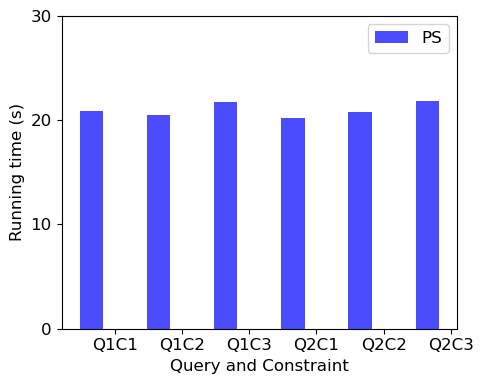
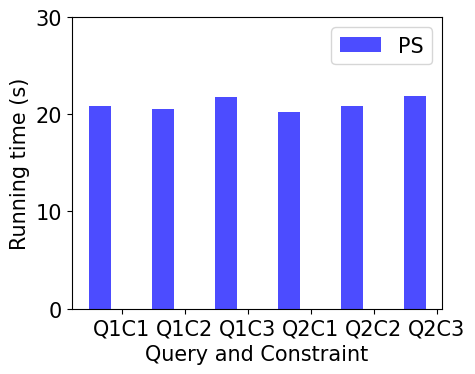
adult data

Changed region(s): [[0.0, 0.0, 1.0, 0.9706]]

diff --git a/Experiment/adult/relaxation/fig1.py b/Experiment/adult/relaxation/fig1.py
@@ -1,0 +1,69 @@
+import matplotlib.pyplot as plt
+import seaborn as sns
+from matplotlib.ticker import FuncFormatter
+import numpy as np
+
+plt.rc('text', usetex=True)
+plt.rc('font', family='serif')
+
+
+sns.set_palette("Paired")
+# sns.set_palette("deep")
+sns.set_context("poster", font_scale=2)
+sns.set_style("whitegrid")
+# sns.palplot(sns.color_palette("deep", 10))
+# sns.palplot(sns.color_palette("Paired", 9))
+
+color = ['C1', 'C3']
+label = ["PS", "LT"]
+
+f_size = (14, 10)
+
+
+
+
+x_list = list()
+x_naive = list()
+execution_timeps = list()
+execution_timelt = list()
+
+input_path = r'time_0.csv'
+input_file = open(input_path, "r")
+
+Lines = input_file.readlines()
+
+count = 0
+# Strips the newline character
+for line in Lines:
+    count += 1
+    if line == '\n':
+        continue
+    if count < 2:
+        continue
+    if count > 8:
+        break
+    items = line.strip().split(',')
+    x_list.append(items[0])
+    execution_timeps.append(float(items[1]))
+
+
+print(x_list, execution_timeps, execution_timelt)
+
+index = np.arange(len(x_list))
+bar_width = 0.35
+
+fig, ax = plt.subplots(1, 1, figsize=f_size)
+
+plt.bar(index, execution_timeps, bar_width, color=color[0], label=label[0])
+
+plt.xticks(index + bar_width, x_list)
+
+plt.xlabel('Query and Constraint')
+plt.ylabel('Running time (s)')
+plt.yticks([0, 10, 20, 30])
+plt.legend(loc='best')
+
+plt.tight_layout()
+plt.savefig("adult_time_1.png",
+            bbox_inches='tight')
+plt.show()

diff --git a/Experiment/adult/relaxation/fig.py b/Experiment/adult/relaxation/fig.py
@@ -2,7 +2,7 @@ import numpy as np
 import matplotlib.pyplot as plt
 import pandas as pd
 
-plt.rcParams.update({'font.size': 12})
+plt.rcParams.update({'font.size': 15})
 
 
 x_list = list()
